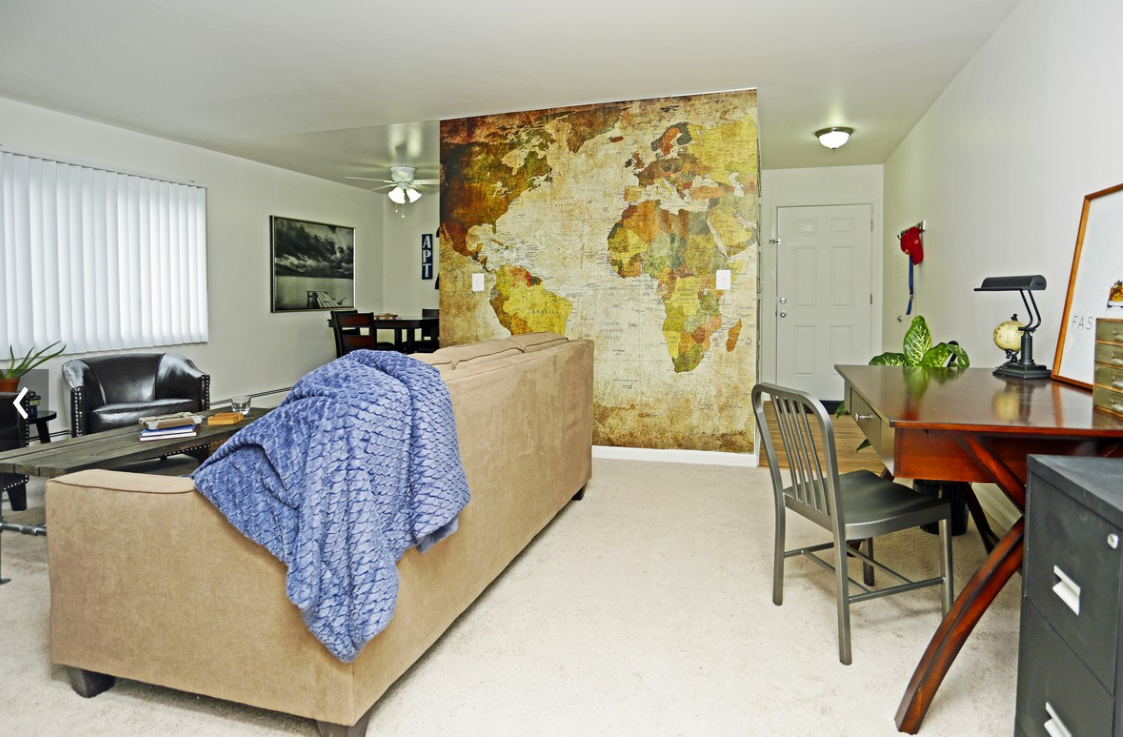
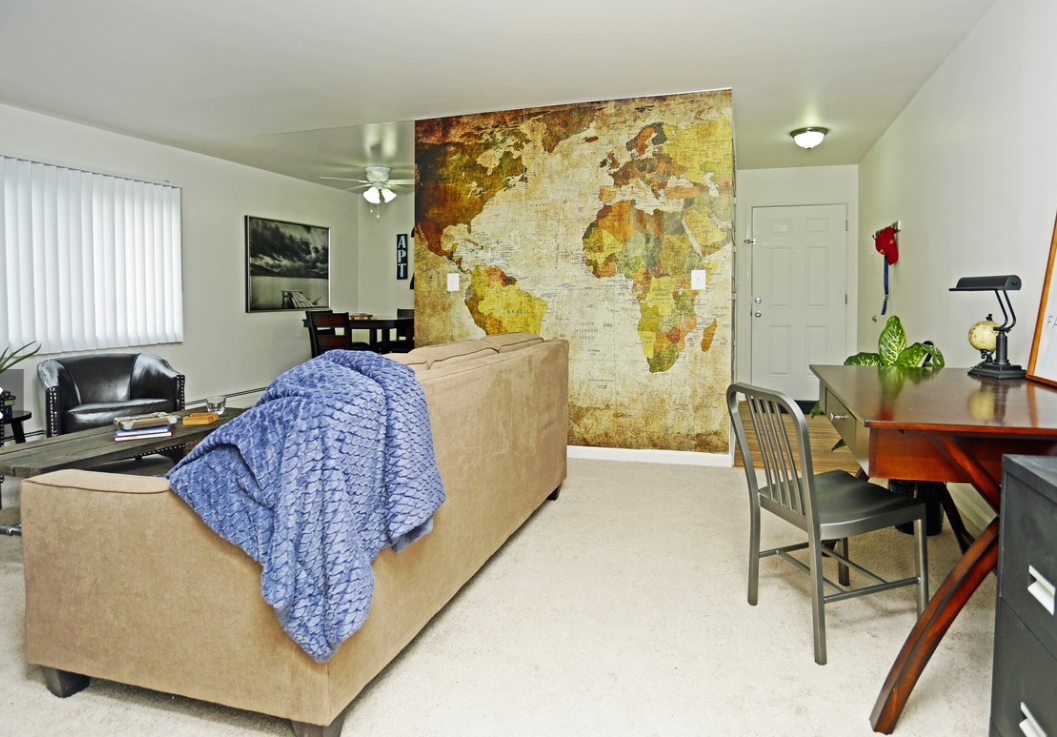
resized all pictures for carosal

diff --git a/index.html b/index.html
@@ -24,9 +24,7 @@
   	<script type="text/javascript" src="app.js"></script>
   	 <script src="https://cdnjs.cloudflare.com/ajax/libs/semantic-ui/2.1.8/semantic.min.js"></script>
 
-<!-- Flip -->
-  	 <script src="https://code.jquery.com/jquery-2.1.4.min.js"></script>
-  	 <script src="https://cdn.rawgit.com/nnattawat/flip/v1.0.19/dist/jquery.flip.min.js"></script>
+
 
 </head>
 <body>
@@ -126,7 +124,7 @@
   <div class="slide"><img src="Images/pool.png"></div>
   <div class="slide"><img src="Images/leasing_office.png"></div>
   <div class="slide"><img src="Images/front_1.png"></div>
-  <div class="slide"><img src="Images/blue_door.png"></div>
+  <div class="slide"><img src="Images/blue_door_2.png"></div>
   <div class="slide"><img src="Images/living_room_1.png"></div>
   <div class="slide"><img src="Images/dining_room_1.png"></div>
   <div class="slide"><img src="Images/kitchen_1.png"></div>

diff --git a/app.js b/app.js
@@ -9,8 +9,6 @@ $(document).ready(function(){
     maxSlides: 3,
     slideMargin: 10
   });
-$('#square1').hover
-  $("#card").flip();
+  $(".bx-controls-direction")[1].hide();
 
-  
 });
